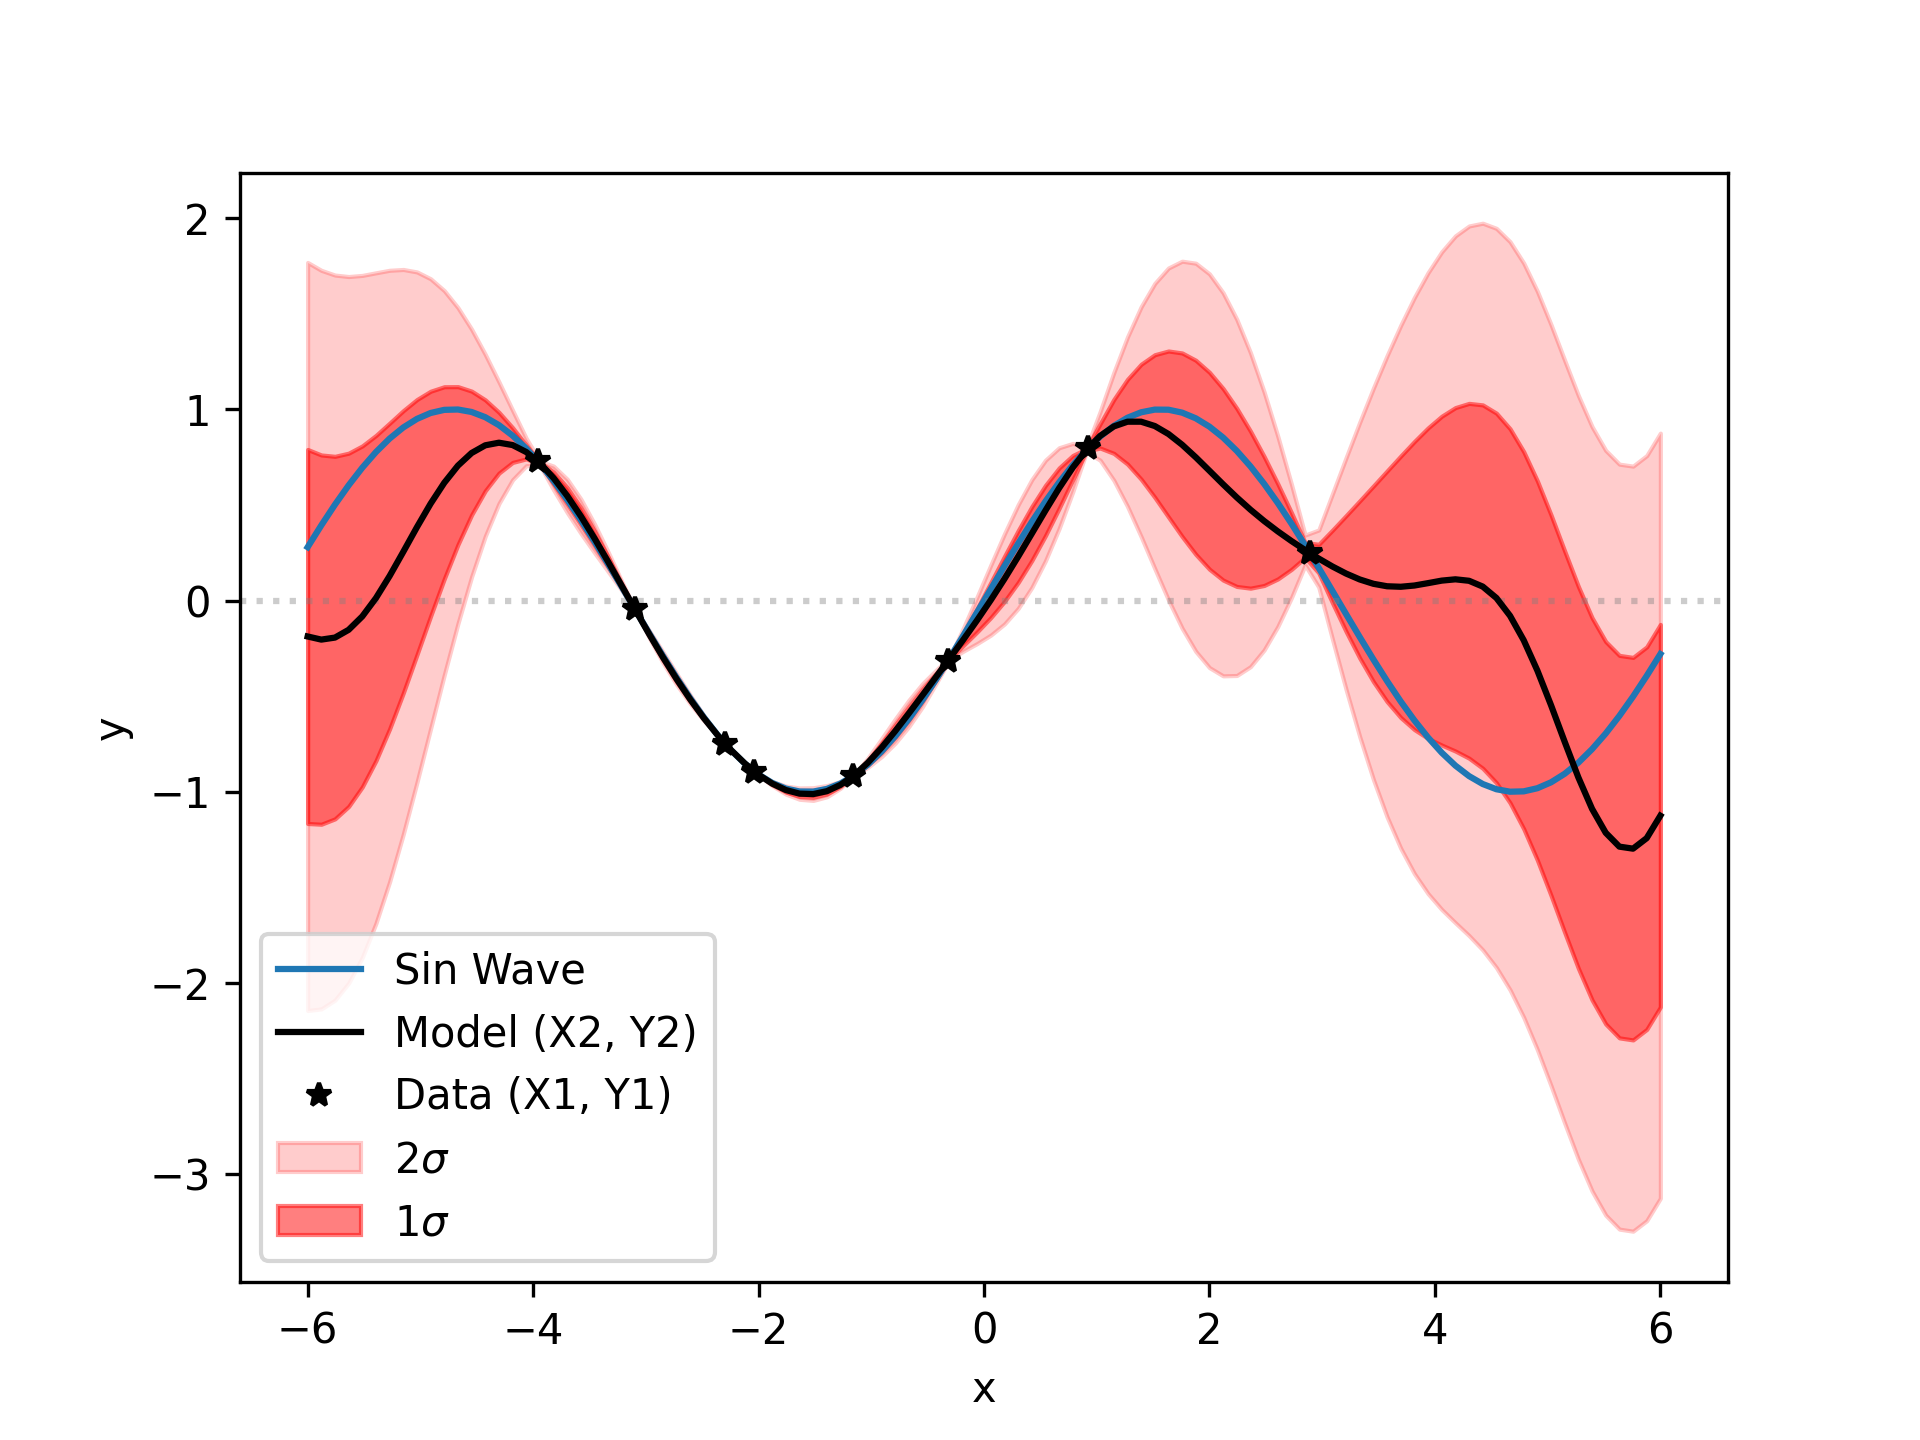
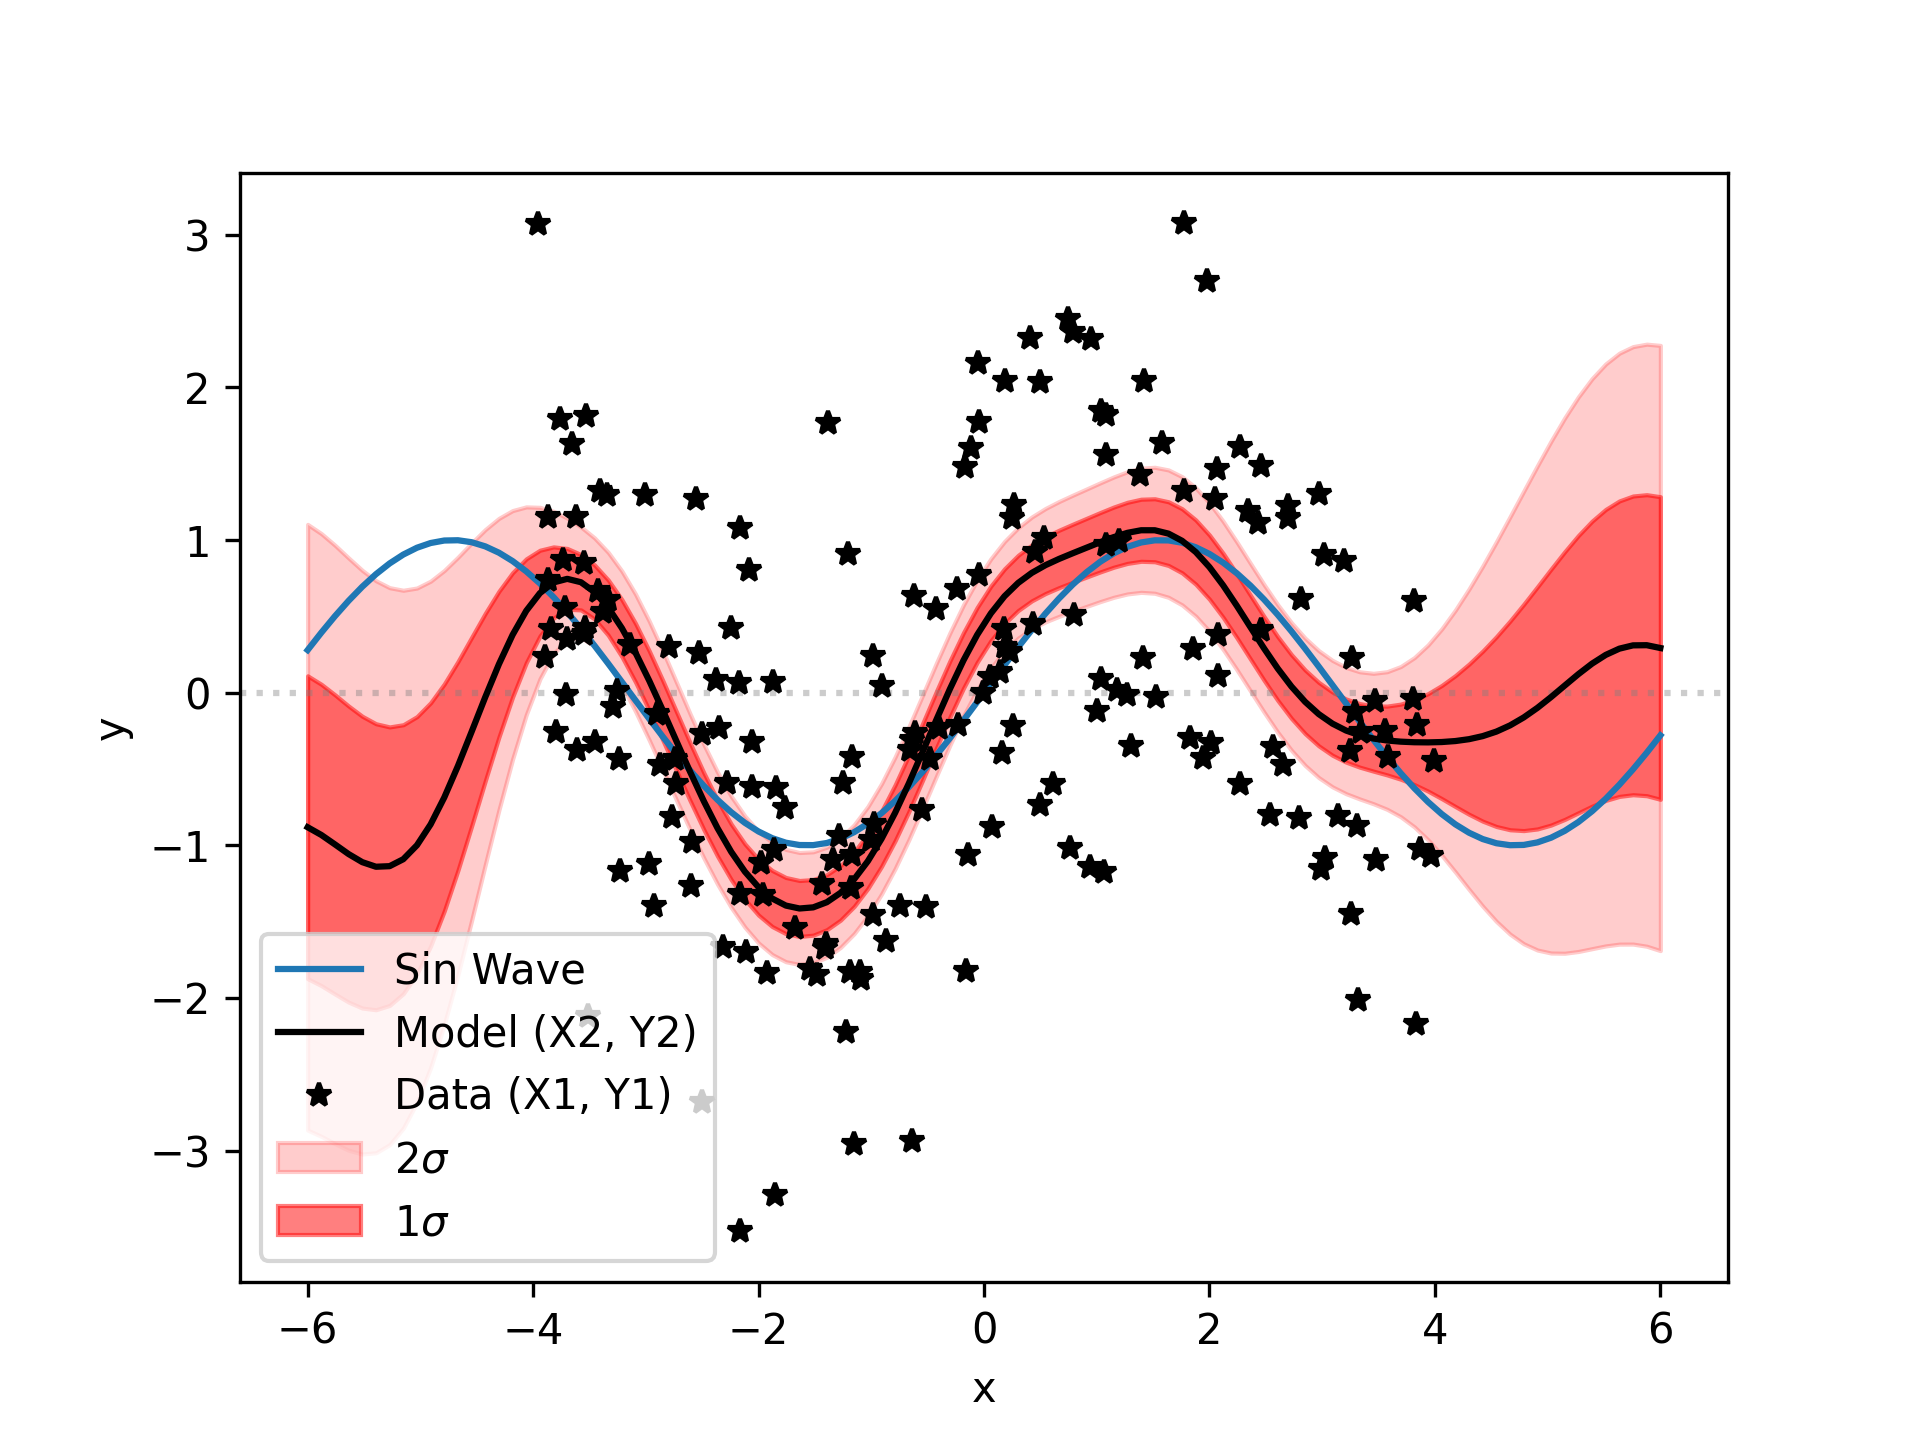
inclusion of noise in basic GPR algorithm

diff --git a/Gaussian-Processes/basic_gp.py b/Gaussian-Processes/basic_gp.py
@@ -7,14 +7,14 @@ Working from this tutorial...
 https://peterroelants.github.io/posts/gaussian-process-tutorial/
 """
 
-def GP(X1, y1, X2, kernel_func):
+def GP(X1, y1, X2, kernel_func, sigma_noise=0):
     """
     X1 and y1 are the data points and X2 is the range you want to
     perform the regression over so y2 is the fitted output.
 
     can think of 2 as the posterior and the kernel as a prior
     """
-    sigma11 = kernel_func(X1, X1)
+    sigma11 = kernel_func(X1, X1) + ((sigma_noise ** 2) * np.eye(len(X1)))
     sigma12 = kernel_func(X1, X2)
     sigma22 = kernel_func(X2, X2)
     solved = scipy.linalg.solve(sigma11, sigma12, assume_a='pos').T
@@ -32,12 +32,14 @@ def exponentiated_quadratic_kernel(xa, xb):
         matrix.append(row)
     return np.array(matrix)
 
-X1 = np.random.uniform(-4, 4, 8)
-y1 = np.sin(X1)
+X1 = np.random.uniform(-4, 4, 200)
+X1 = np.sort(X1)
+sn = 1
+y1 = np.sin(X1) + np.random.normal(0, sn**2, len(X1))
 
 X2 = np.linspace(-6, 6, 100)
 
-mu2, sigma2 = GP(X1, y1, X2, exponentiated_quadratic_kernel)
+mu2, sigma2 = GP(X1, y1, X2, exponentiated_quadratic_kernel, sigma_noise=sn)
 
 s2 = np.sqrt(np.diag(sigma2))
 y2 = np.random.multivariate_normal(mean=mu2, cov=sigma2)
